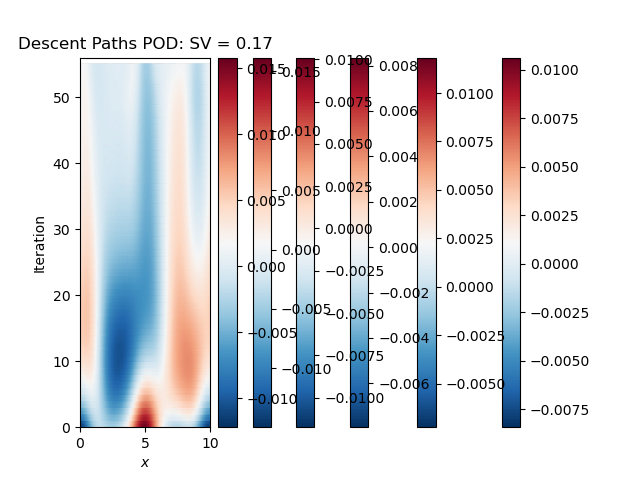
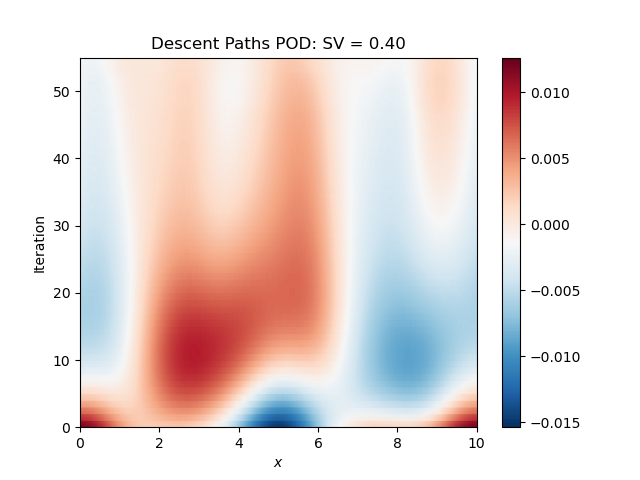
pod cleanup

diff --git a/adjop/kdv/paths_pod.py b/adjop/kdv/paths_pod.py
@@ -86,6 +86,8 @@ forward_solver = forward_problem.build_solver(d3.RK443)
 backward_solver = backward_problem.build_solver(d3.RK443)
 
 write_suffix = str(config.get('parameters', 'suffix'))
+import glob
+procs = len(glob.glob1(path + '/' + write_suffix, "*.pick"))
 
 U0 = ic_scale*np.exp(-np.power(x - mu, 2.) / (2 * np.power(sig, 2.)))
 guess = 0.0
@@ -103,14 +105,13 @@ mode2['g'] = np.sin(4*np.pi*x / Lx)
 
 # U0 = mode1['g'].copy() + mode2['g'].copy()
 
-Nics = 20
 from mpl_toolkits.mplot3d import Axes3D
 xs, ys, zs = 1, 1, 0.1
 # ax.set_box_aspect((np.ptp(xs), np.ptp(ys), np.ptp(zs)))  # aspect ratio is 1:1:1 in data space
 
 data = []
 iters = 0
-for i in range(0, 20, 1):
+for i in range(0, procs, 1):
     tracker_name = path + '/' + write_suffix + '/tracker_rank' + str(i) + '.pick'
     with open(tracker_name, 'rb') as file:
         tracker = pickle.load(file)
@@ -119,7 +120,7 @@ for i in range(0, 20, 1):
         x0[ind] -= U0
     iters = len(x0)
     objs = tracker['objectiveT']
-    logger.info('appending {}/{}'.format(i, Nics))
+    logger.info('appending {}/{}'.format(i, procs))
     data.append(np.array(x0).flatten())
 
 
@@ -135,9 +136,10 @@ for comp_ind in range(comps):
     pc = plt.pcolormesh(x.ravel(), np.array(range(iters)), pod0, cmap='RdBu_r', shading='gouraud', rasterized=True, clim=(-0.8, 0.8))
     plt.colorbar(pc)
     plt.xlim(0, Lx)
-    plt.ylim(0, iters)
+    plt.ylim(0, iters - 1)
     plt.xlabel(r'$x$')
     plt.ylabel('Iteration')
     plt.title('Descent Paths POD: SV = {:.2f}'.format(pca.singular_values_[comp_ind]))
     plt.savefig(path + '/' + write_suffix + '/pod_comp{}.png'.format(comp_ind))
     logger.info('figure saved to ' + path + '/' + write_suffix + '/pod_comp{}.png'.format(comp_ind))
+    plt.close()

diff --git a/adjop/kdv/kdv_parallel.py b/adjop/kdv/kdv_parallel.py
@@ -158,7 +158,7 @@ def euler_descent(fun, x0, args, **kwargs):
     f = np.nan
     gamma = np.nan
     refinement_index = 0
-    base = 4
+    base = 2
     substeps_num = base**refinement_index
     substeps_left = 1
     for i in range(opt.loop_index, maxiter):
